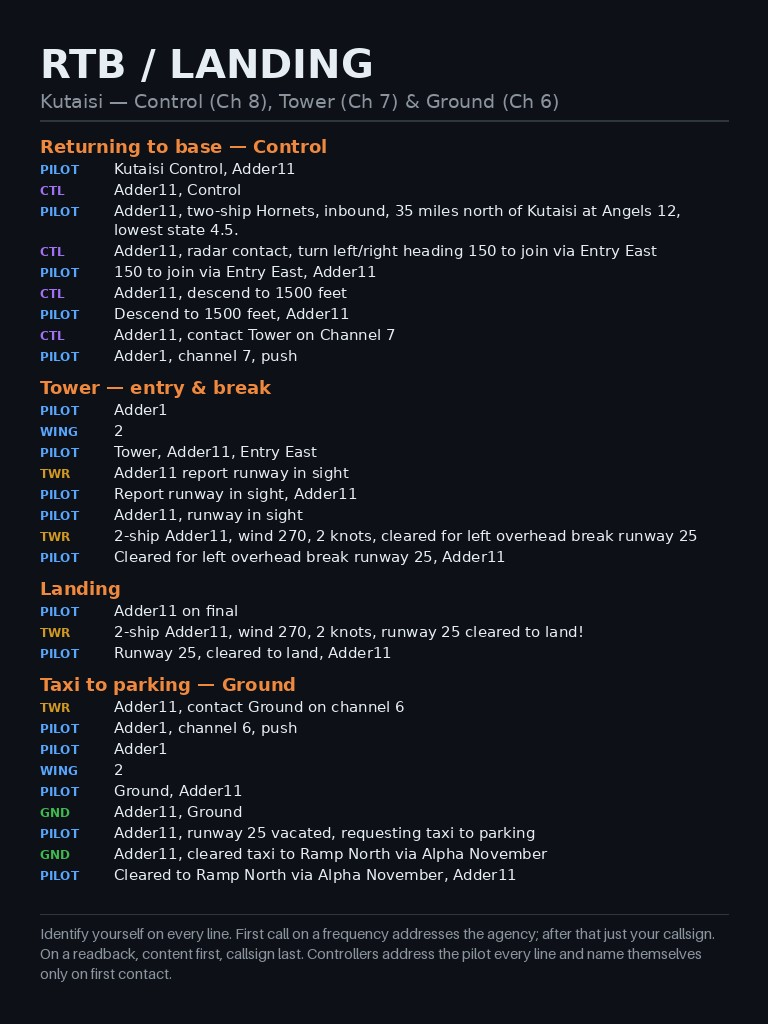
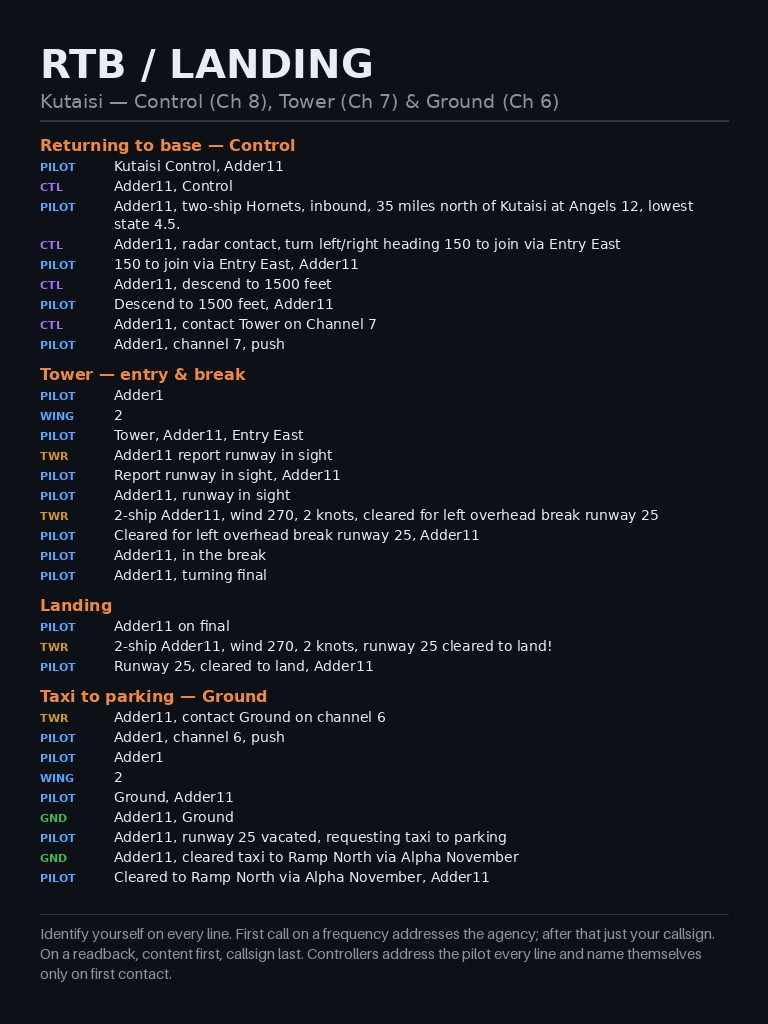
Fixes for break/landing

Changed region(s): [[0.0312, 0.125, 0.9062, 0.875]]

diff --git a/atc/brain.py b/atc/brain.py
@@ -1286,6 +1286,7 @@ class AtcBrain:
                      r"\brunway in sight\b", low):
             return self._say("roger", callsign, agency=self.tower_short)
         if re.search(r"\b(runway in sight|runway insight|visual)\b", low):
+            pilot.phase = Phase.LANDING
             return self._say("cleared_overhead", callsign,
                              flight=self._formation_prefix(pilot))
         # Arrival check-in at the entry point: "Tower, Adder11, Entry East" ->
@@ -1299,14 +1300,32 @@ class AtcBrain:
             pilot.cleared_inbound = True
             return self._say("report_runway_in_sight", callsign)
         # Overhead-break calls. "overhead break" / "initial" is the request for
-        # the break clearance; "in the break" is a position report.
-        if re.search(r"\b(overhead break|initial)\b", low):
+        # the break clearance. "in the break" and "turning final" are optional
+        # position reports (MA: in the break if traffic nearby; turning final
+        # is good practice). None of them is required — "on final" still
+        # clears to land if they skip the pattern calls.
+        if re.search(r"\b(overhead break|initial)\b", low) \
+                and not re.search(r"\bcleared\b", low):
             pilot.phase = Phase.LANDING
             return self._say("cleared_overhead", callsign,
                              flight=self._formation_prefix(pilot))
-        if re.search(r"\b(in the break|the break|overhead)\b", low):
+        # Readback of the break clearance ("cleared for right overhead break")
+        # must not look like "in the break". Correct readback is silent.
+        if pilot.phase == Phase.LANDING and re.search(r"\bcleared\b", low) \
+                and re.search(r"\b(overhead|break|brake|runway)\b", low) \
+                and not re.search(r"\b(to land|on final|in the break)\b", low):
+            return ""
+        if re.search(r"\b(?:in the (?:break|brake)|on the (?:break|brake)|"
+                     r"in break|breaking)\b", low):
+            # Position report only (MA: if traffic nearby). Not a landing
+            # request and not a cue to skip "turning final" — stay silent.
             pilot.phase = Phase.LANDING
-            return self._say("break_ack", callsign)
+            return ""
+        # MA: lead may call "turning final". Not a landing clearance — and
+        # must not match the bare "final" in the on-final rule.
+        if re.search(r"\bturn(?:ing)?(?:\s+to|\s+onto)?\s+final\b", low):
+            pilot.phase = Phase.LANDING
+            return ""
         # Readback of the takeoff clearance once already cleared ("right turn
         # out, cleared for takeoff, 33, Colt 1"). Must come before the "final"
         # check, so a readback containing "turn" is not misread as a landing.
@@ -1339,7 +1358,14 @@ class AtcBrain:
         if pilot.phase == Phase.LANDING and re.search(
                 r"\b(cleared|clear to land|copy|roger|wilco|readback)\b", low):
             return ""
+        # Readback of "report on final" (the in-the-break cue), not the
+        # position report. "reporting on final" / "on final" still land.
+        if re.search(r"\breport on final\b", low) \
+                and not re.search(r"\breporting\b", low):
+            return ""
         # "on final" is a landing clearance (distinct from a general inbound call).
+        # Bare "final" is accepted so a clipped "Adder 1 final" still works;
+        # "turning final" already returned above.
         if re.search(r"\b(on final|short final|final)\b", low):
             # Cross-check: only clear to land if actually on final.
             if track is not None and self.airfield is not None \

diff --git a/atc/tests/test_brain.py b/atc/tests/test_brain.py
@@ -162,10 +162,63 @@ def test_formation_digit_form(brain):
     assert "4-ship Colt 1" in reply
 
 
-def test_tower_in_the_break_acknowledged(brain):
+def test_tower_in_the_break_is_silent(brain):
     reply = brain.handle("Tower, Colt 1, in the break",
                          controller=Controller.TOWER)
-    assert "report on final" in reply
+    assert reply == ""
+    assert brain.pilots["Colt 1"].phase == Phase.LANDING
+    assert not brain.pilots["Colt 1"].cleared_landing
+
+
+def test_tower_break_clearance_readback_is_silent(brain):
+    brain.handle("Tower, Colt 1, runway in sight", controller=Controller.TOWER)
+    reply = brain.handle(
+        "cleared for right overhead break, runway 07, Colt 1",
+        controller=Controller.TOWER)
+    assert reply == ""
+
+
+def test_tower_break_clearance_readback_tolerates_stt_brake(brain):
+    brain.handle("Tower, Colt 1, runway in sight", controller=Controller.TOWER)
+    reply = brain.handle(
+        "cleared for right overhead brake, runway 07, Colt 1",
+        controller=Controller.TOWER)
+    assert reply == ""
+
+
+def test_tower_turning_final_is_silent(brain):
+    brain.handle("Tower, Colt 1, runway in sight", controller=Controller.TOWER)
+    assert brain.handle("Colt 1, turning final",
+                        controller=Controller.TOWER) == ""
+    assert brain.pilots["Colt 1"].phase == Phase.LANDING
+    assert not brain.pilots["Colt 1"].cleared_landing
+
+
+def test_tower_pattern_calls_are_optional_before_final(brain):
+    # Skip in-the-break and turning-final; on final still clears.
+    brain.handle("Tower, Colt 1, runway in sight", controller=Controller.TOWER)
+    reply = brain.handle("Tower, Colt 1, on final", controller=Controller.TOWER)
+    assert "cleared to land" in reply
+
+
+def test_tower_pattern_then_final(brain):
+    brain.handle("Tower, Colt 1, runway in sight", controller=Controller.TOWER)
+    brain.handle("cleared for left overhead break runway 25, Colt 1",
+                 controller=Controller.TOWER)
+    assert brain.handle("Colt 1, in the break",
+                        controller=Controller.TOWER) == ""
+    assert brain.handle("Colt 1, turning final",
+                        controller=Controller.TOWER) == ""
+    reply = brain.handle("Colt 1, on final", controller=Controller.TOWER)
+    assert "cleared to land" in reply
+
+
+def test_tower_report_on_final_readback_is_silent(brain):
+    brain.handle("Tower, Colt 1, in the break", controller=Controller.TOWER)
+    assert brain.handle("report on final, Colt 1",
+                        controller=Controller.TOWER) == ""
+    reply = brain.handle("Colt 1, on final", controller=Controller.TOWER)
+    assert "cleared to land" in reply
 
 
 # ---------- Master Arms Mission Procedures flow ----------

diff --git a/scripts/kneeboard.py b/scripts/kneeboard.py
@@ -152,6 +152,8 @@ PAGES = [
                 ("P", "Adder11, runway in sight"),
                 ("TWR", "2-ship Adder11, wind 270, 2 knots, cleared for left overhead break runway 25"),
                 ("P", "Cleared for left overhead break runway 25, Adder11"),
+                ("P", "Adder11, in the break"),
+                ("P", "Adder11, turning final"),
             ]),
             ("Landing", [
                 ("P", "Adder11 on final"),

diff --git a/atc/tests/test_system.py b/atc/tests/test_system.py
@@ -139,7 +139,7 @@ def test_light_path_return_and_landing(airfield, brain):
     assert "report runway in sight" in r.lower()
     r = sc.say("Colt 1, runway in sight", Controller.TOWER)
     assert "overhead break" in r.lower()
-    assert sc.phase() == Phase.INBOUND
+    assert sc.phase() == Phase.LANDING
     sc.on_final("25")
     r = sc.say("Colt 1, on final", Controller.TOWER)
     assert "cleared to land" in r.lower()

diff --git a/ATC.md b/ATC.md
@@ -180,6 +180,9 @@ step on the next controller's first call.
 | "Descend to 1500 feet, Colt 1" | **readback** | *(silent if still high)* — then, once at 1500 ft, "Colt 1, Control, contact Tower on channel 7." unprompted. Already at 1500 on the readback → handoff immediately. |
 | "Tower, Colt 1, Entry East" | **entry** | "Colt 1, Tower, report runway in sight." |
 | "Tower, Colt 1, runway in sight" | **runway in sight** | "2-ship Colt 1, Tower, wind calm, cleared for left overhead break runway 25." (the "2-ship" prefix appears once a formation size has been heard) | |
+| "cleared for left overhead break runway 25, Colt 1" | **readback** | *(silent)* |
+| "Colt 1, in the break" | **in the break** | *(silent)* (optional) |
+| "Colt 1, turning final" | **turning final** | *(silent)* (optional) |
 | "Tower, Colt 1, on final" | **final** | "Colt 1, Tower, wind calm, runway 25, cleared to land." |
 | "Tower, Colt 1, runway vacated" / "…rolling off runway 25" | **vacated** | "Colt 1, Tower, contact Ground on channel 6." (normally Tower pushes you to Ground **unprompted** once you roll off the runway — see §7; both MA's "rolling off" and the standard "vacated" are accepted) |
 | "Ground, Colt 1, rolling off runway 25, requesting taxi to parking" | **taxi to parking** | "Colt 1, Ground, cleared taxi to Ramp North via Alpha November." |
@@ -210,6 +213,7 @@ follows this rule:
 | Line-up | takeoff clearance | the takeoff clearance itself |
 | Control join | the descent | the descent instruction |
 | Control descent | Tower handoff | the handoff |
+| Overhead-break clearance | in the break / on final | *(silent)* |
 
 An **incomplete** readback is never silently accepted: it gets an honest
 "readback incomplete — I did not get your {item}. Continue." (the phase still
@@ -859,10 +863,15 @@ Frequencies and controller names come from `airspace.json`; CLI flags
   departure is told *"fly runway heading"*. The exit is chosen once, at "ready
   to copy clearance", so Ground's exit and Tower's turnout always agree.
 - "runway in sight" / "overhead break" / "initial" → overhead-break clearance.
-- "in the break" → acknowledged: *"roger, report on final"*.
+  A correct readback is **silent** (same as takeoff/landing).
+- "in the break" → **silent** position report (optional; MA: if other traffic).
+- "turning final" → **silent** position report (optional; MA good practice).
+- Skipping either call is fine: **"on final"** still gets the landing
+  clearance. Neither call is a landing request; Tower does not "roger".
 - "Entry East" (arrival check-in at the entry point) → *"report runway in
   sight"*.
-- "inbound" / "on final" → distance-aware inbound reply (see §4).
+- "inbound" / "on final" → distance-aware inbound reply (see §4). "on final"
+  is the landing clearance.
 - "runway vacated" / "rolling off runway 25" (after landing) → handoff:
   *"contact Ground on channel 6"*.
 

diff --git a/kneeboard/README.md b/kneeboard/README.md
@@ -50,6 +50,7 @@ trainee learns the correct form rather than the wiki's slips:
 | *"4-ship Adder11"* on the break/landing | *"2-ship Adder11"* | the example is a two-ship throughout |
 | *"rolling off runway 25"* | *"runway 25 vacated"* | standard phraseology |
 | *"Tower on 7, Adder11"* (single-aircraft form) | *"Adder1, channel 7, push"* | the example is a 2-ship, so use the flight form |
+| (no pattern calls on the Mission Procedures dialog) | *"Adder11, in the break"* then *"turning final"* | MA Landing Procedures: call in the break if traffic; turning final is good practice. Optional — "on final" still gets the landing clearance |
 | *"Control, Adder11, two-ship Hornets, inbound…"* | *"Adder11, two-ship Hornets, inbound…"* | Control was already contacted; no re-address |
 
 Everything else is verbatim from the wiki.
